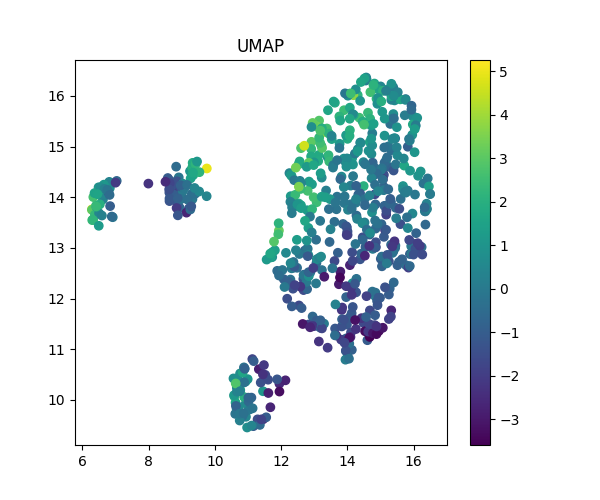
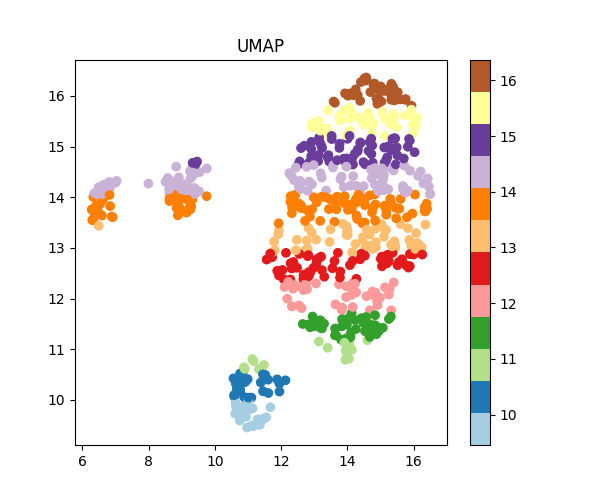
Geração de graficos da UMAP com diferentes numeros de vizinhos.

diff --git a/student.py b/student.py
@@ -93,7 +93,6 @@ def apply_pca_and_plot(x_train, y_train, dataset_cod, n_components=2, labels=Non
     pca = PCA(n_components=n_components)
 
 
-
 def main():
     # Execução do pipeline com parâmetros genéricos
 
@@ -146,12 +145,12 @@ def main():
     x_scaled = scaler.fit_transform(x_imputed)
 
     # # Visualização dos resultados
-    # fig, axs = plt.subplots(2, 2, figsize=(12, 10))
+    fig, axs = plt.subplots(2, 2, figsize=(12, 10))
 
     plt.figure(figsize=(8, 6))
 
     # Aplicar PCA
-    pca = PCA()
+    pca = PCA(n_components=15)
     x_pca = pca.fit_transform(x_scaled)
     #
     # # Extrair a variância explicada por cada componente principal
@@ -197,34 +196,32 @@ def main():
     #
     # # Definir o color map
     # color_map = data['G3'] if 'G3' in data.columns else x_pca[:, 1]
-    #
-    # # Plot e salvamento de cada gráfico
-    # # PCA plot
+    # #
+    # # # Plot e salvamento de cada gráfico
+    # # # PCA plot
     # plt.figure(figsize=(6, 5))
-    # sc = plt.scatter(x_pca[:, 0], x_pca[:, 1], c=color_map, cmap='viridis')
+    # sc = plt.scatter(x_pca[:, 0], x_pca[:, 1], c=color_map, cmap='tab10')
     # plt.colorbar(sc)
     # plt.title("PCA")
-    # plt.savefig("PCA_plot_2pcs.png")
+    # plt.savefig("PCA_plot_2pcs2.png")
     # plt.close()
 
     #
     #
-    # Aplicar UMAP
-    # umap_reducer = umap.UMAP(n_components=2, random_state=42)
-    # x_umap = umap_reducer.fit_transform(x_scaled)
+
     #
     # # Aplicar PaCMAP
     # pacmap_reducer = pacmap.PaCMAP(n_components=2, random_state=42)
     # x_pacmap = pacmap_reducer.fit_transform(x_scaled)
 
-    x = data.drop(columns=['target'])  # Remova a coluna 'target' para aplicar o t-SNE nas features
-    y = data['target']  # Defina o 'target' como y
+    # x = data.drop(columns=['target'])  # Remova a coluna 'target' para aplicar o t-SNE nas features
+    # y = data['target']  # Defina o 'target' como y
 
 
     # Aplicar t-SNE
     # valor apdrão para perplexidade = 30
-    tsne = TSNE(perplexity=50, random_state=42)
-    x_tsne = tsne.fit_transform(x_scaled)
+    # tsne = TSNE(perplexity=50, random_state=42)
+    # x_tsne = tsne.fit_transform(x_scaled)
 
     # df = pd.DataFrame({
     #     't-SNE1': x_tsne[:, 0],
@@ -242,7 +239,7 @@ def main():
     # plt.show()
 
     # Definir o color map
-    color_map = data['G3'] if 'G3' in data.columns else x_tsne[:, 1]
+    # color_map = data['G3'] if 'G3' in data.columns else x_tsne[:, 1]
 
     # t-SNE plot
     # plt.figure(figsize=(6, 5))
@@ -253,34 +250,34 @@ def main():
     # plt.close()
 
     # Configurar a figura com subplots lado a lado
-    fig, axs = plt.subplots(1, 2, figsize=(12, 6))
+    # fig, axs = plt.subplots(1, 2, figsize=(12, 6))
 
     # Aplicar t-SNE com perplexidade de 50
-    tsne_50 = TSNE(n_components=2, perplexity=50, random_state=42)
-    x_tsne_50 = tsne_50.fit_transform(x_scaled)
-
-    # Primeiro subplot (perplexity=50)
-    sc_50 = axs[0].scatter(x_tsne_50[:, 0], x_tsne_50[:, 1], c=color_map, cmap='Paired', alpha=0.7)
-    axs[0].set_title("t-SNE com Perplexidade 50")
-    axs[0].set_xlabel("Dimensão 1")
-    axs[0].set_ylabel("Dimensão 2")
-    fig.colorbar(sc_50, ax=axs[0])
-
-    # Aplicar t-SNE com perplexidade de 20
-    tsne_20 = TSNE(n_components=2, perplexity=20, random_state=42)
-    x_tsne_20 = tsne_20.fit_transform(x_scaled)
-
-    # Segundo subplot (perplexity=20)
-    sc_20 = axs[1].scatter(x_tsne_20[:, 0], x_tsne_20[:, 1], c=color_map, cmap='Paired', alpha=0.7)
-    axs[1].set_title("t-SNE com Perplexidade 20")
-    axs[1].set_xlabel("Dimensão 1")
-    axs[1].set_ylabel("Dimensão 2")
-    fig.colorbar(sc_20, ax=axs[1])
-
-    # Ajustar layout e salvar a figura
-    plt.tight_layout()
-    plt.savefig("tSNE_plot_perplexity_comparison.png")
-    plt.show()
+    # tsne_50 = TSNE(n_components=2, perplexity=50, random_state=42)
+    # x_tsne_50 = tsne_50.fit_transform(x_scaled)
+    #
+    # # Primeiro subplot (perplexity=50)
+    # sc_50 = axs[0].scatter(x_tsne_50[:, 0], x_tsne_50[:, 1], c=color_map, cmap='Paired', alpha=0.7)
+    # axs[0].set_title("t-SNE com Perplexidade 50")
+    # axs[0].set_xlabel("Dimensão 1")
+    # axs[0].set_ylabel("Dimensão 2")
+    # fig.colorbar(sc_50, ax=axs[0])
+    #
+    # # Aplicar t-SNE com perplexidade de 20
+    # tsne_20 = TSNE(n_components=2, perplexity=20, random_state=42)
+    # x_tsne_20 = tsne_20.fit_transform(x_scaled)
+    #
+    # # Segundo subplot (perplexity=20)
+    # sc_20 = axs[1].scatter(x_tsne_20[:, 0], x_tsne_20[:, 1], c=color_map, cmap='Paired', alpha=0.7)
+    # axs[1].set_title("t-SNE com Perplexidade 20")
+    # axs[1].set_xlabel("Dimensão 1")
+    # axs[1].set_ylabel("Dimensão 2")
+    # fig.colorbar(sc_20, ax=axs[1])
+    #
+    # # Ajustar layout e salvar a figura
+    # plt.tight_layout()
+    # plt.savefig("tSNE_plot_perplexity_comparison.png")
+    # plt.show()
 
     # Suponha que x_tsne seja o resultado do t-SNE em duas dimensões
     # sns.kdeplot(x=x_tsne[:, 0], y=x_tsne[:, 1], cmap="magma", fill=True, bw_adjust=0.7)
@@ -307,14 +304,67 @@ def main():
     # plt.savefig('tSNE_conexao_vizinhos_proximos.png')
     # plt.show()
 
+    # Aplicar UMAP
+    umap_reducer = umap.UMAP(random_state=42)
+    x_umap = umap_reducer.fit_transform(x_scaled)
     #
     # # UMAP plot
+    color_map = data['G3'] if 'G3' in data.columns else x_umap[:, 1]
     # plt.figure(figsize=(6, 5))
-    # sc = plt.scatter(x_umap[:, 0], x_umap[:, 1], c=color_map, cmap='viridis')
+    # sc = plt.scatter(x_umap[:, 0], x_umap[:, 1], c=color_map, cmap='Paired')
     # plt.colorbar(sc)
     # plt.title("UMAP")
     # plt.savefig("UMAP_plot.png")
     # plt.close()
+
+    # fig, axs = plt.subplots(1, 3, figsize=(18, 6))
+    #
+    # # Aplicar UMAP com numero de vizinhos padrão 15
+    # umap_15 = umap.UMAP(random_state=42)
+    # x_umap_15 = umap_15.fit_transform(x_scaled)
+    #
+    #
+    # # Primeiro subplot (n_neighbors=15)
+    # color_map_15 = data['G3'] if 'G3' in data.columns else x_umap_15[:, 1]
+    # sc_15 = axs[0].scatter(x_umap_15[:, 0], x_umap_15[:, 1], c=color_map_15, cmap='Paired', alpha=0.7)
+    # axs[0].set_title("UMAP com parâmetro n_neighbors padrão 15")
+    # axs[0].set_xlabel("Dimensão 1")
+    # axs[0].set_ylabel("Dimensão 2")
+    # fig.colorbar(sc_15, ax=axs[0])
+    #
+    # # Aplicar UMAP com numero de vizinhos 50
+    # umap_50 = umap.UMAP(n_neighbors=50, random_state=42)
+    # x_umap_50 = umap_50.fit_transform(x_scaled)
+    #
+    #
+    # # Segundo subplot (n_neighbors=50)
+    # color_map_50 = data['G3'] if 'G3' in data.columns else x_umap_50[:, 1]
+    # sc_50 = axs[1].scatter(x_umap_50[:, 0], x_umap_50[:, 1], c=color_map_50, cmap='Paired', alpha=0.7)
+    # axs[1].set_title("UMAP com parâmetro n_neighbors = 15")
+    # axs[1].set_xlabel("Dimensão 1")
+    # axs[1].set_ylabel("Dimensão 2")
+    # fig.colorbar(sc_50, ax=axs[1])
+    #
+    # # Aplicar UMAP com numero de vizinhos 10
+    # umap_100 = umap.UMAP(n_neighbors=100, random_state=42)
+    # x_umap_100 = umap_100.fit_transform(x_scaled)
+    #
+    #
+    # # Terceiro subplot (n_neighbors=100)
+    # color_map_100 = data['G3'] if 'G3' in data.columns else x_umap_100[:, 1]
+    # sc_100 = axs[2].scatter(x_umap_100[:, 0], x_umap_100[:, 1], c=color_map_100, cmap='Paired', alpha=0.7)
+    # axs[2].set_title("UMAP com parâmetro n_neighbors = 100")
+    # axs[2].set_xlabel("Dimensão 1")
+    # axs[2].set_ylabel("Dimensão 2")
+    # fig.colorbar(sc_100, ax=axs[2])
+    #
+    # # Ajustar layout e salvar a figura
+    # plt.tight_layout()
+    # plt.savefig("umap_neighbors_comp.png")
+    # plt.show()
+
+
+
     #
     # # PaCMAP plot
     # plt.figure(figsize=(6, 5))
